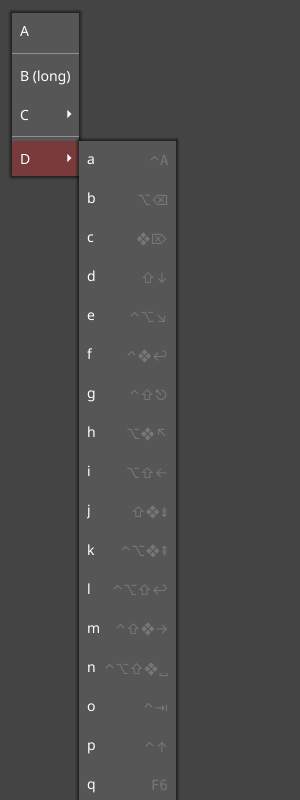
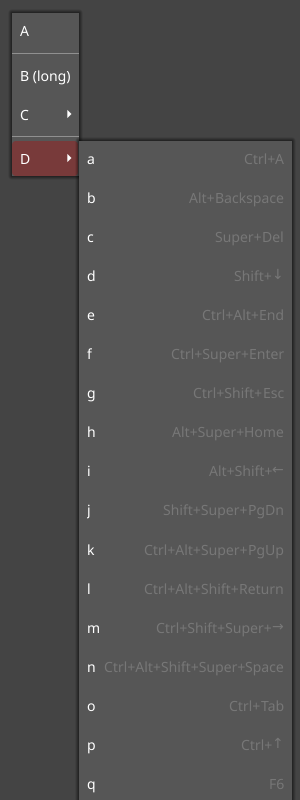
Add menu shortcut texts for windows & linux

diff --git a/widget/menu_item.go b/widget/menu_item.go
@@ -11,32 +11,6 @@ import (
 	"fyne.io/fyne/v2/theme"
 )
 
-// TODO
-
-const (
-	runeModifierAlt     = '⌥'
-	runeModifierControl = '⌃'
-	runeModifierShift   = '⇧'
-)
-
-var keySymbols = map[fyne.KeyName]rune{
-	fyne.KeyBackspace: '⌫',
-	fyne.KeyDelete:    '⌦',
-	fyne.KeyDown:      '↓',
-	fyne.KeyEnd:       '↘',
-	fyne.KeyEnter:     '↩',
-	fyne.KeyEscape:    '⎋',
-	fyne.KeyHome:      '↖',
-	fyne.KeyLeft:      '←',
-	fyne.KeyPageDown:  '⇟',
-	fyne.KeyPageUp:    '⇞',
-	fyne.KeyReturn:    '↩',
-	fyne.KeyRight:     '→',
-	fyne.KeySpace:     '␣',
-	fyne.KeyTab:       '⇥',
-	fyne.KeyUp:        '↑',
-}
-
 var _ fyne.Widget = (*menuItem)(nil)
 
 // menuItem is a widget for displaying a fyne.menuItem.
@@ -392,33 +366,38 @@ func shortcutColor(th fyne.Theme) color.Color {
 	return color.NRGBA{R: uint8(r), G: uint8(g), B: uint8(b), A: uint8(a)}
 }
 
-func textsForShortcut(s fyne.KeyboardShortcut, th fyne.Theme) (texts []*canvas.Text) {
+func textsForShortcut(sc fyne.KeyboardShortcut, th fyne.Theme) (texts []*canvas.Text) {
+	// add modifier
 	b := strings.Builder{}
-	mods := s.Mod()
+	mods := sc.Mod()
 	if mods&fyne.KeyModifierControl != 0 {
-		b.WriteRune(runeModifierControl)
+		b.WriteString(textModifierControl)
 	}
 	if mods&fyne.KeyModifierAlt != 0 {
-		b.WriteRune(runeModifierAlt)
+		b.WriteString(textModifierAlt)
 	}
 	if mods&fyne.KeyModifierShift != 0 {
-		b.WriteRune(runeModifierShift)
+		b.WriteString(textModifierShift)
 	}
 	if mods&fyne.KeyModifierSuper != 0 {
-		b.WriteRune(runeModifierSuper)
-	}
-	r := keySymbols[s.Key()]
-	if r != 0 {
-		b.WriteRune(r)
+		b.WriteString(textModifierSuper)
 	}
 	shortColor := shortcutColor(th)
-	t := canvas.NewText(b.String(), shortColor)
-	t.TextStyle.Symbol = true
-	texts = append(texts, t)
-	if r == 0 {
-		text := canvas.NewText(string(s.Key()), shortColor)
-		text.TextStyle.Monospace = true
-		texts = append(texts, text)
+	if b.Len() > 0 {
+		t := canvas.NewText(b.String(), shortColor)
+		t.TextStyle = styleModifiers
+		texts = append(texts, t)
 	}
+	// add key
+	style := defaultStyleKeys
+	s, ok := keyTexts[sc.Key()]
+	if !ok {
+		s = string(sc.Key())
+	} else if len(s) == 1 {
+		style = fyne.TextStyle{Symbol: true}
+	}
+	t := canvas.NewText(s, shortColor)
+	t.TextStyle = style
+	texts = append(texts, t)
 	return
 }

diff --git a/widget/menu_item_darwin.go b/widget/menu_item_darwin.go
@@ -1,3 +1,35 @@
 package widget
 
-const runeModifierSuper = '⌘'
+import (
+	"fyne.io/fyne/v2"
+)
+
+const (
+	textModifierAlt     = "⌥"
+	textModifierControl = "⌃"
+	textModifierShift   = "⇧"
+	textModifierSuper   = "⌘"
+)
+
+var (
+	styleModifiers   = fyne.TextStyle{Symbol: true}
+	defaultStyleKeys = fyne.TextStyle{Monospace: true}
+)
+
+var keyTexts = map[fyne.KeyName]string{
+	fyne.KeyBackspace: "⌫",
+	fyne.KeyDelete:    "⌦",
+	fyne.KeyDown:      "↓",
+	fyne.KeyEnd:       "↘",
+	fyne.KeyEnter:     "↩",
+	fyne.KeyEscape:    "⎋",
+	fyne.KeyHome:      "↖",
+	fyne.KeyLeft:      "←",
+	fyne.KeyPageDown:  "⇟",
+	fyne.KeyPageUp:    "⇞",
+	fyne.KeyReturn:    "↩",
+	fyne.KeyRight:     "→",
+	fyne.KeySpace:     "␣",
+	fyne.KeyTab:       "⇥",
+	fyne.KeyUp:        "↑",
+}

diff --git a/widget/menu_item_other.go b/widget/menu_item_other.go
@@ -2,4 +2,36 @@
 
 package widget
 
-const runeModifierSuper = '❖'
+import (
+	"fyne.io/fyne/v2"
+)
+
+const (
+	textModifierAlt     = "Alt+"
+	textModifierControl = "Ctrl+"
+	textModifierShift   = "Shift+"
+	textModifierSuper   = "Super+"
+)
+
+var (
+	styleModifiers   = fyne.TextStyle{}
+	defaultStyleKeys = fyne.TextStyle{}
+)
+
+var keyTexts = map[fyne.KeyName]string{
+	fyne.KeyBackspace: "Backspace",
+	fyne.KeyDelete:    "Del",
+	fyne.KeyDown:      "↓",
+	fyne.KeyEnd:       "End",
+	fyne.KeyEnter:     "Enter",
+	fyne.KeyEscape:    "Esc",
+	fyne.KeyHome:      "Home",
+	fyne.KeyLeft:      "←",
+	fyne.KeyPageDown:  "PgDn",
+	fyne.KeyPageUp:    "PgUp",
+	fyne.KeyReturn:    "Return",
+	fyne.KeyRight:     "→",
+	fyne.KeySpace:     "Space",
+	fyne.KeyTab:       "Tab",
+	fyne.KeyUp:        "↑",
+}
